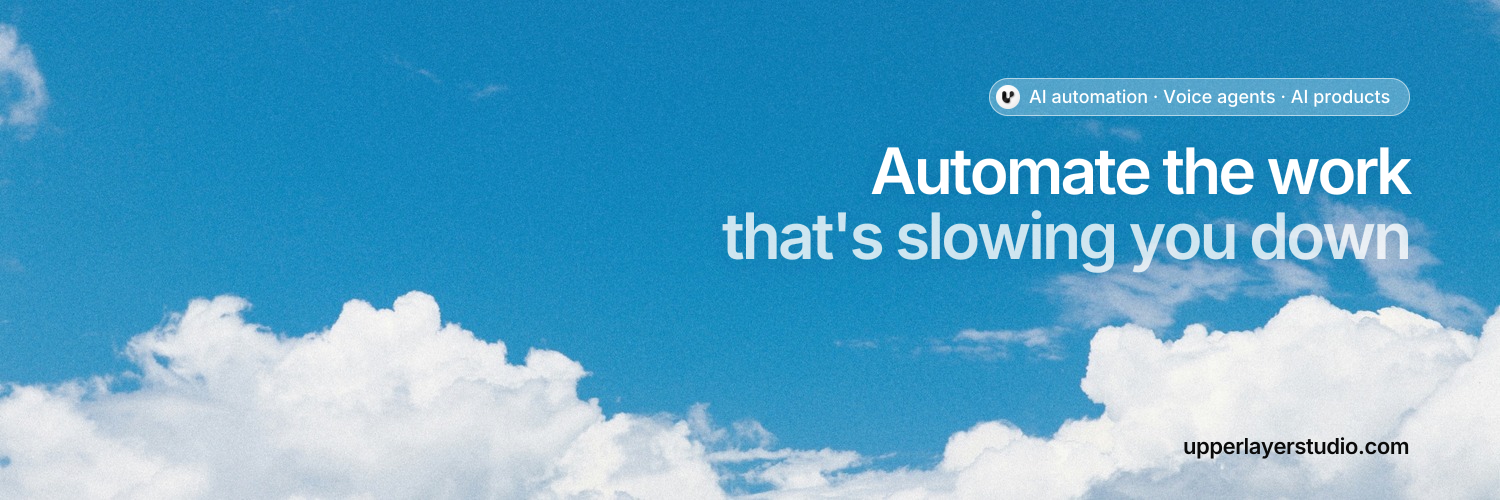
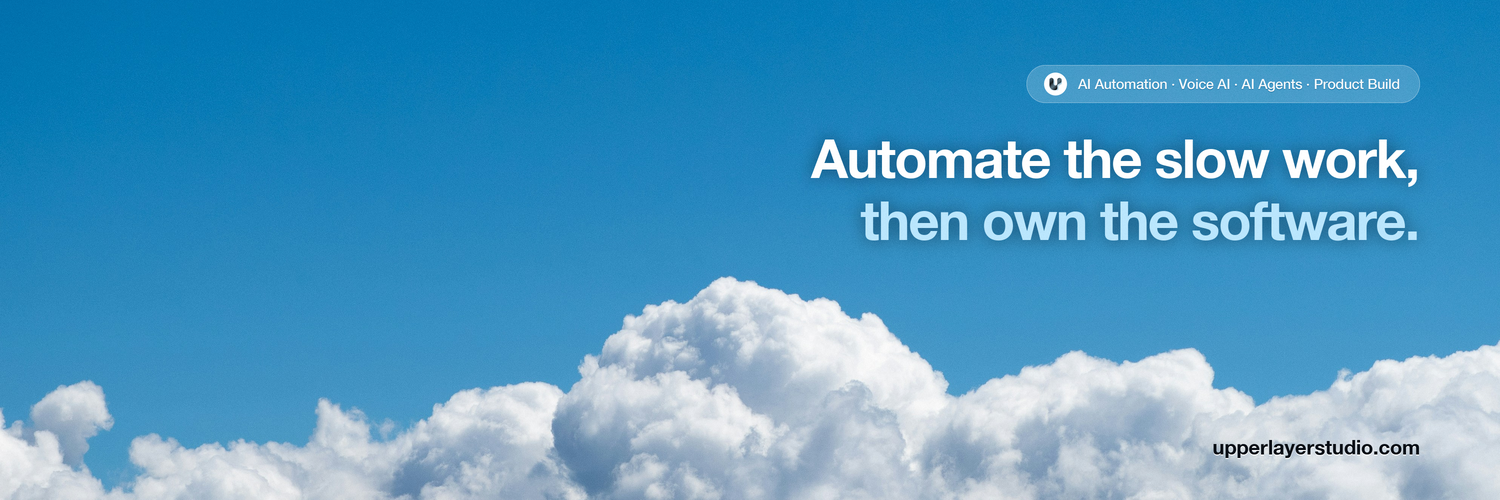
feat(hero): add 4K meadow visual, Bright Studios arrival motion, and refined copy

diff --git a/src/components/sections/Hero.tsx b/src/components/sections/Hero.tsx
@@ -1,29 +1,55 @@
+"use client";
+
+import { motion } from "motion/react";
 import { Container } from "@/components/ui/Container";
 import { Button } from "@/components/ui/Button";
 import { Pill } from "@/components/ui/Pill";
 import { ArrowLink } from "@/components/ui/ArrowLink";
 import { hero } from "@/lib/site";
 import { MediaImage } from "@/components/ui/MediaImage";
+import { mediaUrl } from "@/lib/media";
 import { HeroParallax } from "./HeroParallax";
+import { useReducedMotion } from "@/lib/use-reduced-motion";
 
-// Photo behind the hero. null leaves the hero on the plain page background.
-const HERO_PHOTO: string | null = "/hero/hero-clouds-v2.jpg";
+// Background assets: native 4K UHD meadow visual with hill crest reaching halfway through subtitle (~53.9%)
+const HERO_PHOTO: string | null = "/hero/upper-layer-meadow-mid-4k.jpg";
+const HERO_VIDEO: string | null = null; // Can be set to "/hero/upper-layer-meadow.mp4" once animated with Runway/Luma
 
-// A 24px copy of HERO_PHOTO, inlined so the sky paints with the HTML while the
-// full photo is still on its way (and the white copy is never on bare white).
-// Regenerate it whenever the photo changes; null skips the placeholder.
+// 24px inlined blur placeholder for upper-layer-meadow-mid-4k.jpg
 const HERO_BLUR: string | null =
[2 lines of base64/hex data omitted]
 
-/** Server component — no JS on the critical path. */
+// Exact multi-stop fade mask from bybrightstudios.com:
+// -webkit-mask: linear-gradient(#000 0% 70%, #0009 82%, #00000040 91%, #0000 100%);
+// mask: linear-gradient(#000 0% 70%, #0009 82%, #00000040 91%, #0000 100%);
+const HERO_MASK_STYLE: React.CSSProperties = {
+  WebkitMaskImage:
+    "linear-gradient(180deg, #000 0% 70%, rgba(0, 0, 0, 0.6) 82%, rgba(0, 0, 0, 0.25) 91%, transparent 100%)",
+  maskImage:
+    "linear-gradient(180deg, #000 0% 70%, rgba(0, 0, 0, 0.6) 82%, rgba(0, 0, 0, 0.25) 91%, transparent 100%)",
+};
+
+// Softened hero text veil: lighter radial glow behind headline
+const HERO_TEXT_VEIL_STYLE: React.CSSProperties = {
+  background:
+    "radial-gradient(62% 52% at 50% 46%, rgba(255, 255, 255, 0.40) 0%, rgba(255, 255, 255, 0.20) 48%, transparent 78%)",
+};
+
+// Bright Studios signature ease-out curve for visitor arrival entrance
+const BRIGHT_EASE = [0.16, 1, 0.3, 1] as const;
+
 export function Hero() {
-  const delay = (s: number) => ({ "--rise-delay": `${s}s` }) as React.CSSProperties;
+  const reduce = useReducedMotion();
 
   return (
-    <section className="relative isolate overflow-hidden pt-[60px]">
-      {/* The photo stops ~48px under the stat card and masks out over its last 30%, like BrightStudios */}
+    <section className="relative isolate overflow-hidden bg-white pt-[60px]">
+      {/* Hero media background: Bright Studios video loop with high-res poster and multi-stop mask */}
       {HERO_PHOTO && (
-        <div aria-hidden className="pointer-events-none absolute inset-x-0 top-0 bottom-0 -z-10 overflow-hidden [mask-image:linear-gradient(180deg,#000_0%,#000_93%,rgba(0,0,0,0.6)_97%,transparent_100%)]">
+        <div
+          aria-hidden="true"
+          className="pointer-events-none absolute inset-x-0 top-0 bottom-0 -z-20 overflow-hidden"
+          style={HERO_MASK_STYLE}
+        >
           <HeroParallax>
             <MediaImage
               src={HERO_PHOTO}
@@ -35,55 +61,97 @@ export function Hero() {
               blurDataURL={HERO_BLUR ?? undefined}
               sizes="100vw"
               quality={90}
-              className="object-cover object-top"
+              className="object-cover object-center"
             />
+            {HERO_VIDEO && (
+              <video
+                src={mediaUrl(HERO_VIDEO)}
+                autoPlay
+                muted
+                loop
+                playsInline
+                preload="metadata"
+                className="pointer-events-none absolute inset-0 h-full w-full object-cover object-center"
+              />
+            )}
           </HeroParallax>
         </div>
       )}
 
-      <Container className="relative flex flex-col items-center pt-14 pb-10 text-center sm:pt-20 sm:pb-14">
-        <div className="rise select-none" style={delay(0)}>
-          <Pill className="px-[14px]! py-1.5! text-[14px]! font-normal!">{hero.badge}</Pill>
-        </div>
+      {/* Hero text veil: radial illumination glow centered behind the headline */}
+      <div
+        aria-hidden="true"
+        className="pointer-events-none absolute inset-0 -z-10"
+        style={HERO_TEXT_VEIL_STYLE}
+      />
+
+      {/* Subtle bottom gradient to guarantee an imperceptible dissolve into the white page */}
+      <div
+        aria-hidden="true"
+        className="pointer-events-none absolute inset-x-0 bottom-0 h-28 -z-10 bg-gradient-to-b from-transparent via-white/40 to-white"
+      />
+
+      <Container className="relative flex flex-col items-center pt-10 pb-10 text-center sm:pt-14 sm:pb-14">
+        <motion.div
+          initial={reduce ? false : { opacity: 0, y: 18 }}
+          animate={{ opacity: 1, y: 0 }}
+          transition={{ duration: 0.75, ease: BRIGHT_EASE, delay: 0.08 }}
+          className="select-none"
+        >
+          <Pill tone="light" className="px-[14px]! py-1.5! text-[14px]! font-normal!">
+            {hero.badge}
+          </Pill>
+        </motion.div>
 
         {/* Two deliberate lines — text-wrap:balance is off here so the colour
             split always lands in the same place. */}
-        <h1
-          className="rise mt-5 max-w-[36ch] select-none text-[32px] leading-[1.12] tracking-[-0.025em] sm:text-[44px] sm:leading-[1.1] lg:text-[52px]"
-          style={delay(0)}
+        <motion.h1
+          initial={reduce ? false : { opacity: 0, y: 26, filter: "blur(4px)" }}
+          animate={{ opacity: 1, y: 0, filter: "blur(0px)" }}
+          transition={{ duration: 0.85, ease: BRIGHT_EASE, delay: 0.2 }}
+          className="mt-5 max-w-[36ch] select-none text-[32px] leading-[1.1] tracking-[-0.035em] sm:text-[44px] sm:leading-[1.08] lg:text-[52px]"
         >
-          <span className="block text-white">
+          <span className="block text-ink">
             {hero.headline.lead}
           </span>
-          <span className="block mt-1 sm:mt-1.5 text-[#bae6fd]">
+          <span className="block mt-1 sm:mt-1.5 text-[#286c85]">
             {hero.headline.trail}
           </span>
-        </h1>
+        </motion.h1>
 
-        <p
-          className="rise mt-6 max-w-[620px] select-none text-[16px] leading-[1.65] text-pretty text-white/75 sm:text-[17px]"
-          style={delay(0.05)}
+        <motion.p
+          initial={reduce ? false : { opacity: 0, y: 20 }}
+          animate={{ opacity: 1, y: 0 }}
+          transition={{ duration: 0.85, ease: BRIGHT_EASE, delay: 0.34 }}
+          className="mt-6 max-w-[620px] select-none text-[16px] leading-[1.65] text-pretty text-ink/75 sm:text-[17px]"
         >
           {hero.body}
-        </p>
+        </motion.p>
 
-        <div className="rise mt-7 flex flex-wrap items-center justify-center gap-3" style={delay(0.1)}>
+        <motion.div
+          initial={reduce ? false : { opacity: 0, y: 16 }}
+          animate={{ opacity: 1, y: 0 }}
+          transition={{ duration: 0.8, ease: BRIGHT_EASE, delay: 0.48 }}
+          className="mt-7 flex flex-wrap items-center justify-center gap-3"
+        >
           <Button href={hero.primary.href} size="lg">
             {hero.primary.label}
           </Button>
           <Button href={hero.secondary.href} size="lg" variant="light">
             {hero.secondary.label}
           </Button>
-        </div>
+        </motion.div>
       </Container>
 
       {/* Floating proof card, mirrors the reference's headline stat bar */}
-      <Container className="relative pb-[70px]">
-        <div
-          className="rise mx-auto flex max-w-[800px] flex-col gap-5 rounded-[var(--radius-card)] bg-white/94 px-6 py-5 shadow-[var(--shadow-float)] backdrop-blur-sm sm:flex-row sm:items-center sm:gap-5 sm:px-6"
-          style={delay(0.15)}
+      <Container className="relative pb-[95px]">
+        <motion.div
+          initial={reduce ? false : { opacity: 0, y: 20 }}
+          animate={{ opacity: 1, y: 0 }}
+          transition={{ duration: 0.85, ease: BRIGHT_EASE, delay: 0.6 }}
+          className="mx-auto flex max-w-[800px] flex-col gap-5 rounded-[var(--radius-card)] bg-white/94 px-6 py-5 shadow-[0_2px_12px_rgba(10,10,10,0.04)] border border-line/60 backdrop-blur-sm sm:flex-row sm:items-center sm:gap-5 sm:px-6"
         >
-          <span className="text-[32px] leading-none font-medium tracking-[-0.035em] sm:text-[36px]">
+          <span className="text-[32px] leading-none font-medium tracking-[-0.035em] text-ink sm:text-[36px]">
             {hero.stat.value}
           </span>
           <div className="flex-1">
@@ -93,7 +161,7 @@ export function Hero() {
           <ArrowLink href={hero.stat.link.href} className="shrink-0 text-[13px]">
             {hero.stat.link.label}
           </ArrowLink>
-        </div>
+        </motion.div>
       </Container>
     </section>
   );

diff --git a/src/lib/site.ts b/src/lib/site.ts
@@ -90,9 +90,9 @@ export const nav = [
 
 export const hero = {
   badge: "AI automation, AI voice & product",
-  headline: { lead: "AI Automation Services", trail: "Automate the work that's slowing you down" },
+  headline: { lead: "Automate the slow work", trail: "Then own the software" },
   body:
-    "I start with the work that repeats — the manual workflows, the missed calls, the copy‑paste between tools — and replace it with systems that run on their own. Once those are earning their keep, I turn them into software you own outright.",
+    "Bottlenecked by manual workflows, missing client calls, or scaling your team? I build custom AI automations and voice agents that help modern businesses run on autopilot and own the software outright.",
   primary: { label: "Book a call", href: site.book },
   secondary: { label: "See what I build", href: "#services" },
   stat: {

diff --git a/src/components/sections/HeroParallax.tsx b/src/components/sections/HeroParallax.tsx
@@ -44,11 +44,12 @@ export function HeroParallax({ children }: { children: React.ReactNode }) {
 
   return (
     <div ref={containerRef} className="absolute inset-0">
-      {/* Flush with top so the sky sits cleanly behind the headline and subtitle */}
+      {/* Flush with top and padded so the parallax drift never clips or exposes a gap */}
       <div
         ref={innerRef}
-        className="absolute inset-0 will-change-transform"
+        className="absolute -top-[10%] -bottom-[10%] inset-x-0 h-[120%] origin-center will-change-transform"
         style={{
+          transformOrigin: "50% 50%",
           transform: reduce ? "scale(1.025)" : "translate3d(0, 0%, 0) scale(1.025)",
         }}
       >
